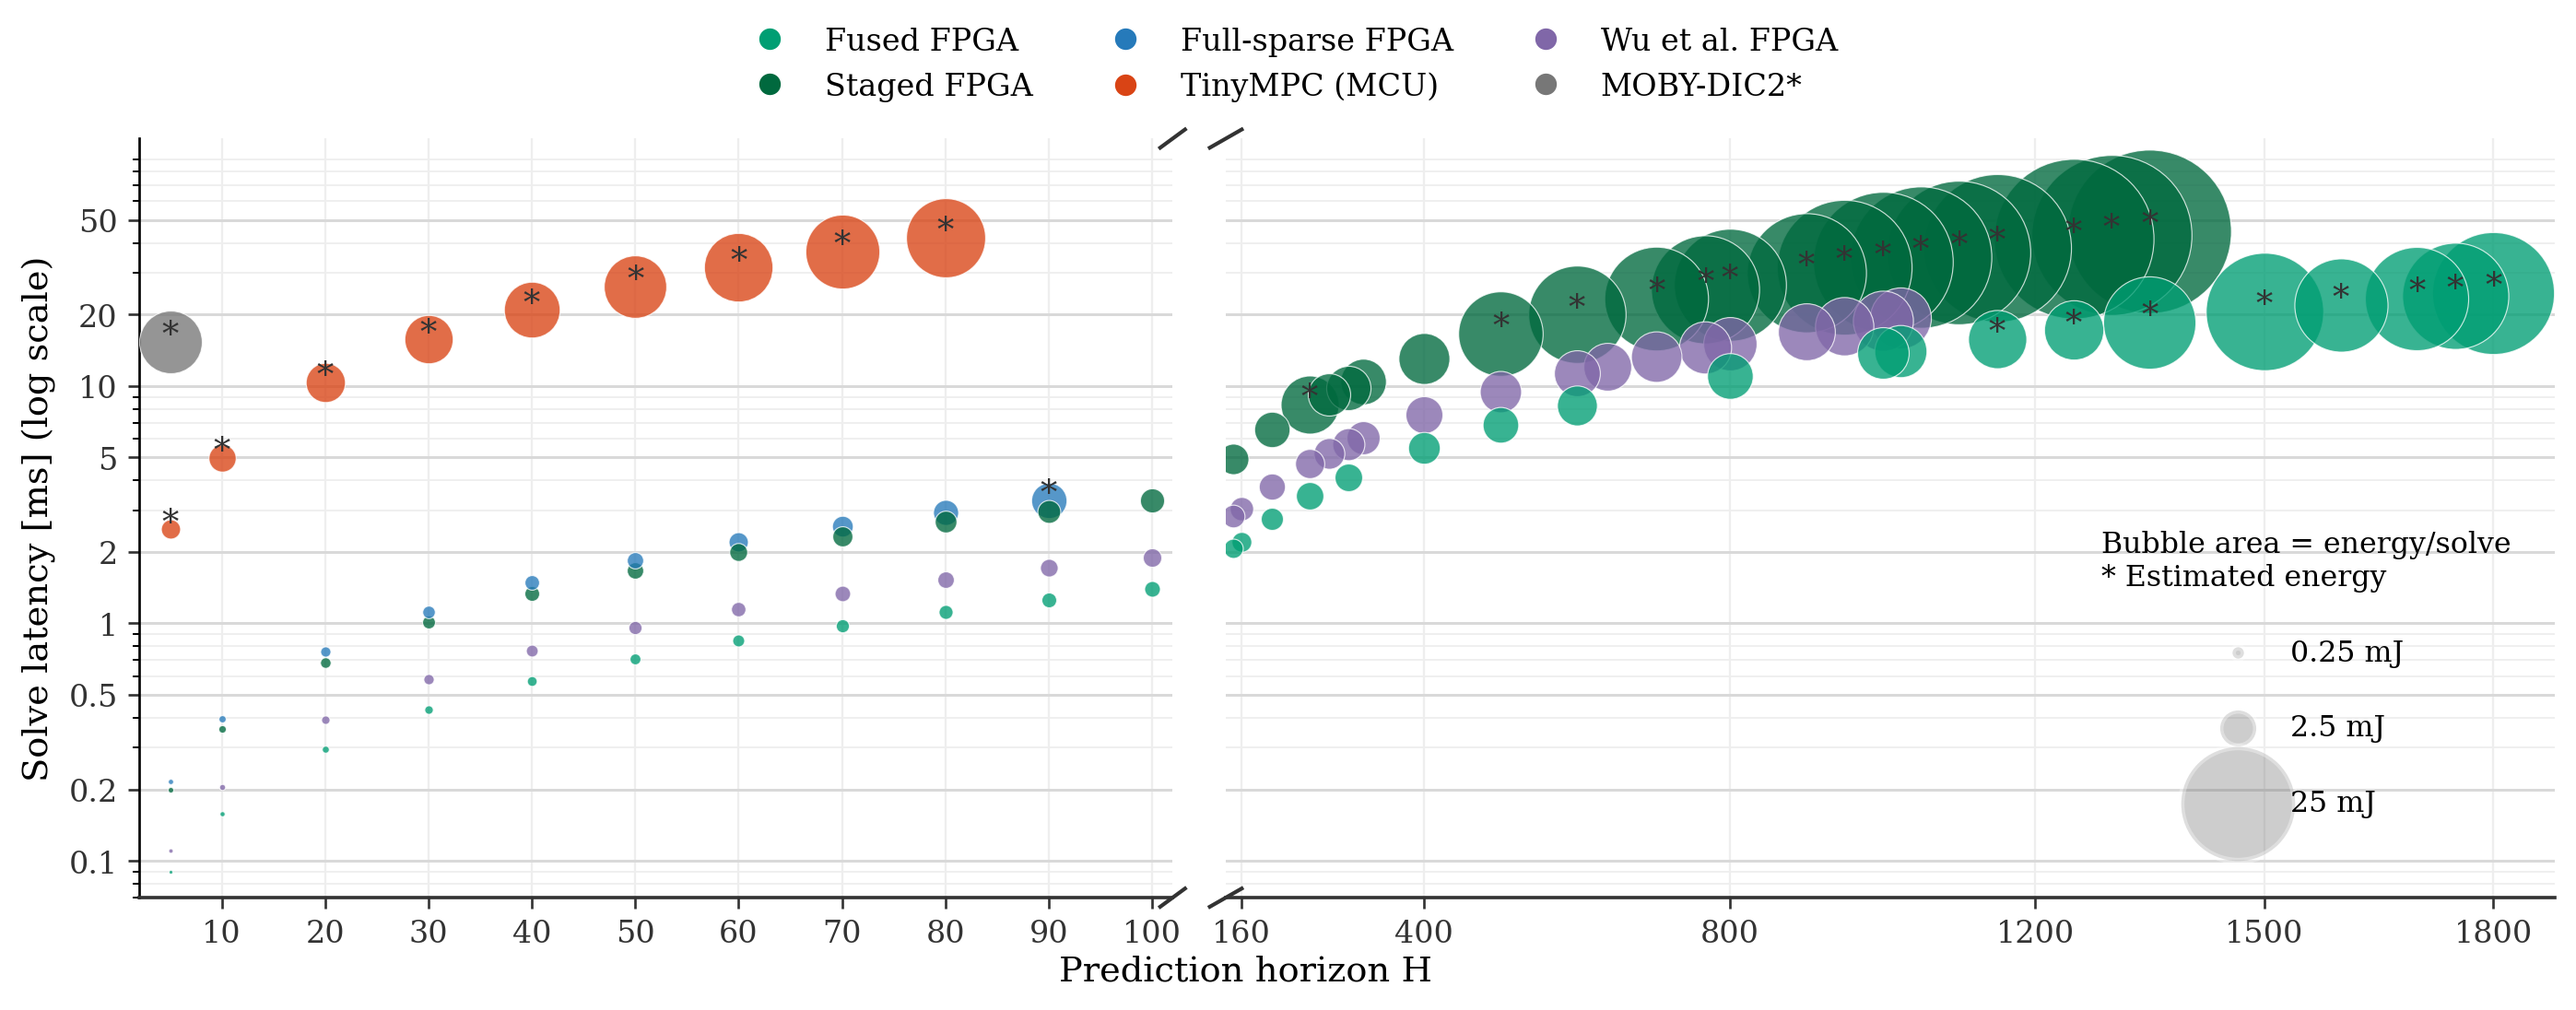
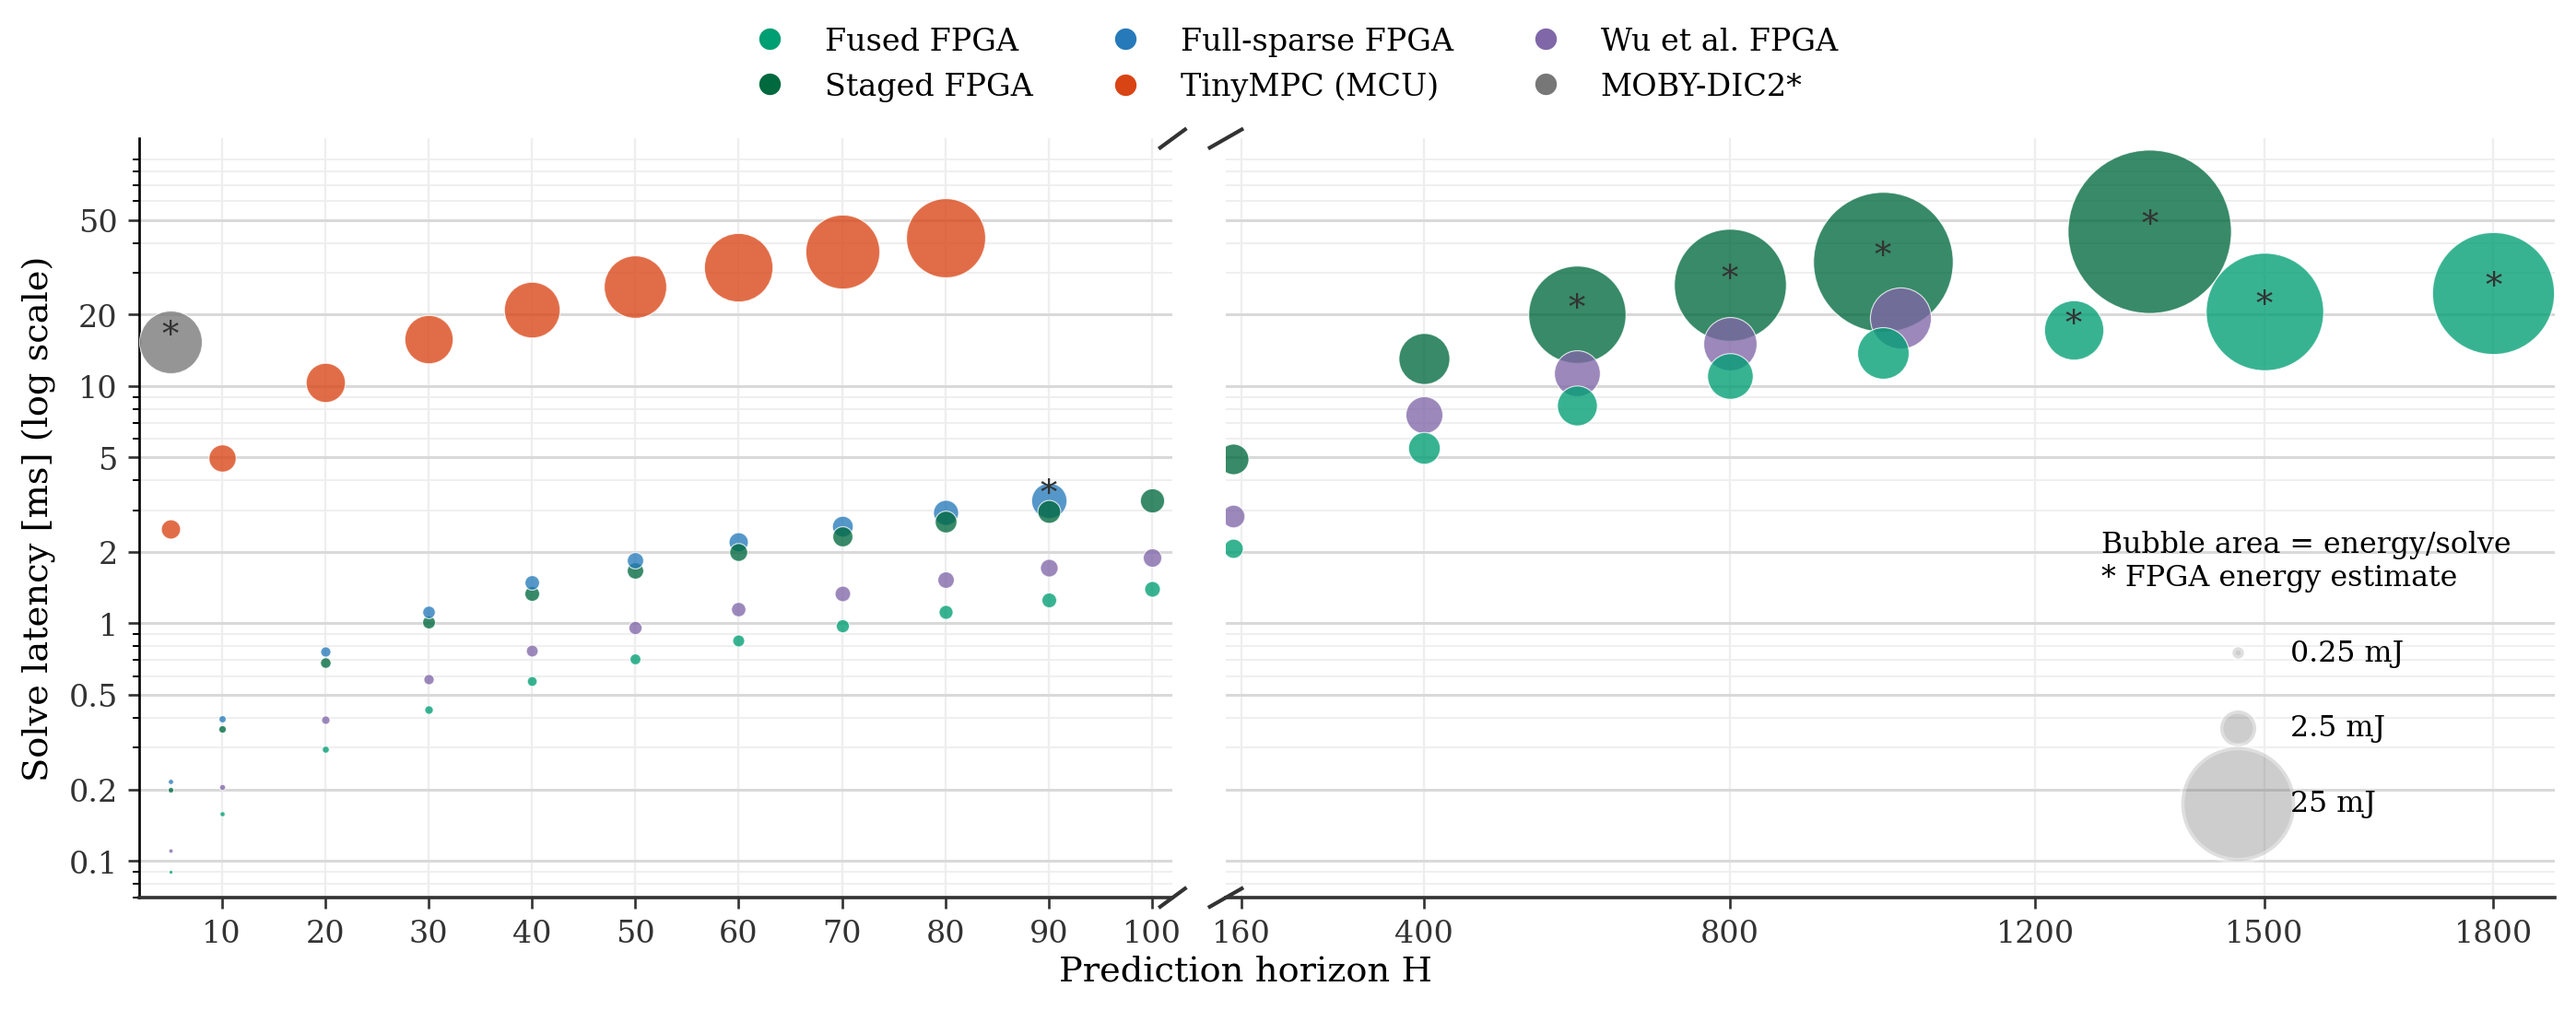
Restore benchmark plot annotations and document measured TinyMPC FPGA energy

Changed region(s): [[0.4669, 0.1551, 0.9961, 0.5584], [0.8093, 0.5584, 0.9649, 0.5894]]

diff --git a/evaluation/plot_benchmarks.py b/evaluation/plot_benchmarks.py
@@ -406,7 +406,7 @@ def _plot_points(ax, rows: list[dict[str, str]], tinympc_power_w: float) -> None
         millijoules = bubble_energy(row)
         if not math.isfinite(millijoules) or millijoules <= 0:
             continue
-        estimated = row.get("energy_source") in ("post_route_estimate", "nominal_mcu")
+        estimated = row.get("energy_source") == "post_route_estimate"
         latency = comparison_latency_us(row) / 1000
         ax.scatter(
             f(row, "horizon"),
@@ -448,7 +448,21 @@ def plot_headline(
         raise ValueError("No timing-clean benchmark rows matched the requested iteration count")
 
     left_rows = [row for row in rows if f(row, "horizon") <= 100]
-    right_rows = [row for row in rows if f(row, "horizon") >= 140]
+    # Thin only the display; keep every valid row for comparisons and statistics.
+    right_rows = []
+    for arch in ARCH_ORDER:
+        candidates = sorted((r for r in rows if r["arch"] == arch and f(r,"horizon") >= 140),
+                            key=lambda r: f(r,"horizon"))
+        picked = []
+        for row in candidates:
+            if not picked or f(row,"horizon") - f(picked[-1],"horizon") >= 180:
+                picked.append(row)
+        if candidates and picked[-1] is not candidates[-1]:
+            if len(picked) > 1 and f(candidates[-1],"horizon") - f(picked[-1],"horizon") < 140:
+                picked[-1] = candidates[-1]
+            else:
+                picked.append(candidates[-1])
+        right_rows.extend(picked)
 
     fig, (left_ax, right_ax) = plt.subplots(
         1,
@@ -512,7 +526,7 @@ def plot_headline(
     right_ax.legend(
         legend_handles,
         [f"{millijoules:g} mJ" for millijoules in legend_energies],
-        title="Bubble area = energy/solve\n* Estimated energy",
+        title="Bubble area = energy/solve\n* FPGA energy estimate",
         loc="lower right",
         bbox_to_anchor=(0.985, 0.075),
         frameon=False,
@@ -586,12 +600,12 @@ def plot_edp_bars(
     }
     horizons = [
         horizon
-        for horizon in [5, 10, 20, 40, 80, 250, 800, 1000, 1023]
+        for horizon in range(10, 81, 10)
         if any((arch, horizon) in rows_by_key and
                math.isfinite(edp_uj_us(rows_by_key[(arch, horizon)], tinympc_power_w))
                for arch in RADAR_ARCHES)
     ]
-    bar_order = ARCH_ORDER
+    bar_order = ["tinympc_e", "full_sparse", "staged_a", "tinympc_fpga_float", "staged_fused"]
     if not horizons:
         raise ValueError("No horizons have measured FPGA EDP and a TinyMPC baseline")
 
@@ -600,7 +614,7 @@ def plot_edp_bars(
     non_axis_fontsize = 10
     improvement_label_fontsize = 13
 
-    bar_width = 0.13
+    bar_width = 0.16
     offsets = {arch: (i - (len(bar_order)-1)/2) * bar_width for i, arch in enumerate(bar_order)}
     x_positions = list(range(len(horizons)))
     edp_by_arch = {
@@ -626,7 +640,7 @@ def plot_edp_bars(
     for arch in bar_order:
         for idx,h in enumerate(horizons):
             row=rows_by_key.get((arch,h))
-            if row and row.get("energy_source") in ("post_route_estimate", "nominal_mcu"):
+            if row and row.get("energy_source") == "post_route_estimate":
                 ax.text(idx+offsets[arch], edp_by_arch[arch][idx]*1.1,"*",ha="center",fontsize=9)
     ax.set_yscale("log")
     all_edp = [value for values in edp_by_arch.values() for value in values if math.isfinite(value)]
@@ -652,15 +666,36 @@ def plot_edp_bars(
             if not math.isfinite(edp_by_arch[arch][idx]):
                 ax.text(idx + offsets[arch], min(all_edp) * .65, "n/a",
                         ha="center", color=COLORS[arch], fontsize=8, rotation=90)
-    fig.text(0.5, 0.025, "* Estimated energy. FPGA measurements include estimated auxiliary/I/O rails. n/a: no result.",
-             ha="center", fontsize=9)
+    # Restore dashed comparison arrows and boxed improvement labels.
+    for idx, horizon in enumerate(horizons):
+        target = edp_by_arch["staged_fused"][idx]
+        target_x = idx + offsets["staged_fused"]
+        for baseline, color, label_scale in [("tinympc_e", COLORS["staged_fused"], 0.5),
+                                              ("tinympc_fpga_float", COLORS["tinympc_fpga_float"], 0.5)]:
+            base = edp_by_arch[baseline][idx]
+            top, bottom = base * .95, target * 1.08
+            x = target_x if baseline == "tinympc_e" else target_x - bar_width*.45
+            ax.plot([idx+offsets[baseline]+bar_width/2, x], [top,top],
+                    color=color, linewidth=1.25, linestyle="--", zorder=5)
+            ax.annotate("",xy=(x,bottom),xytext=(x,top),
+                        arrowprops={"arrowstyle":"-|>","color":color,"lw":1.25,
+                                    "linestyle":"--","mutation_scale":11},zorder=5)
+            ratio = base/target
+            label = f"{ratio:.0f}×" if baseline == "tinympc_e" else f"{ratio:.2f}×"
+            ax.annotate(label, xy=(x, bottom*(top/bottom)**label_scale),
+                        xytext=(0,0),textcoords="offset points",color=color,
+                        fontsize=11,fontweight="semibold",ha="center",va="center",
+                        bbox={"boxstyle":"round,pad=0.14","fc":"white","ec":color,
+                              "alpha":.9,"linewidth":.55},zorder=6)
+    fig.text(0.5, 0.025, "Arrows: EDP reduction to fused FPGA. MCU energy uses nominal active power.",
+             ha="center", fontsize=10)
 
     legend = ax.legend(
         loc="upper center", bbox_to_anchor=(0.5, 1.24),
         frameon=False,
         fancybox=False,
         edgecolor="#D0D0D0",
-        fontsize=9, ncol=3,
+        fontsize=11, ncol=3,
     )
     legend.get_frame().set_linewidth(0.8)
     legend.get_frame().set_facecolor("white")
@@ -763,12 +798,27 @@ def plot_solver_radar(
             zorder=3,
         )
         ax.fill(angles, values, color=COLORS[arch], alpha=0.13, zorder=2)
+    label_positions = {
+        "Latency": [(0.04,.38),(-.12,.86),(.08,1.06)],
+        "Energy/solve": [(-.04,.42),(-.11,.90),(.08,1.06)],
+        "EDP": [(0,.20),(-.10,.89),(.08,1.07)],
+        "BRAM": [(0,.73),(.03,.42),(0,1.06)],
+        "Logic": [(0,1.06),(.04,.82),(-.04,.35)],
+        "Scalability": [(-.18,.16),(.08,.34),(0,.92)],
+    }
+    for i, metric in enumerate(metrics):
+        for j, arch in enumerate(RADAR_ARCHES):
+            theta, radius = label_positions[metric][j]
+            ax.text(angles[i]+theta, radius,
+                    format_radar_value(metric,raw_by_arch[arch][metric],max_horizons[arch]),
+                    color=COLORS[arch],fontsize=10,fontweight="semibold",ha="center",va="center",
+                    bbox={"boxstyle":"round,pad=0.12","fc":"white","ec":"none","alpha":.85},zorder=6)
     ax.set_xticks(angles[:-1])
     ax.set_xticklabels([])
     label_distances = {
         "Latency": 1.25,
         "Energy/solve": 1.48,
-        "EDP": 1.3,
+        "EDP": 1.55,
         "BRAM": 1.28,
         "Logic": 1.4,
         "Scalability": 1.4,

diff --git a/docs/benchmarking.md b/docs/benchmarking.md
@@ -62,74 +62,47 @@ It writes canonical CSVs, figures and a short source/settings record. Its
 
 ## Energy and timing definitions
 
-Synthesis-derived FPGA solve latency is HLS cycle count divided by 100 MHz, 
-subject to route timing closure. It excludes SPI and host processing. 
-All latency coordinates in the bubble plot, the feasibility table and
-resource/scalability results use these synthesized implementations. They are separate from the Arty measurement campaign.
+The single publication input is `evaluation/data/benchmarks.csv`. It contains
+completed, timing-clean results only. Measured configurations use measured solve
+latency; uninstrumented configurations use HLS cycles divided by their operating
+clock, subject to route timing closure. Communication and host processing are excluded.
 
-Both post-route power estimates and [Arty measurements](power.md) are provided.
-At all 24 configurations with measurements, the post-route benchmark estimates
-are higher than the measurement-based values, giving a more conservative power
-comparison. The latency/energy and EDP figures use measured active
-core/BRAM rail power plus the auxiliary and I/O supply estimates
-from each configuration's matching post-route report. At the report's printed
-precision these contributions are 32.4 mW VCCAUX and 13.2 mW VCCO33 for all 24
-measured configurations. VCCADC is excluded as it is tied to ground in the custom 
-PCB. AccelMPC EDP bars require measured core/BRAM power. The added TinyMPC FPGA
-baseline uses total post-route estimated power and synthesized latency at 100 MHz;
-its bars are explicitly asterisked and hatched. Missing baseline horizons are
-shown as n/a. The latency/energy plot
-uses post-route estimates for configurations without measurements, marked by an
-asterisk. Each such bubble uses the matching synthesis-derived latency.
+Both AccelMPC and **TinyMPC FPGA (Wu et al.) use Arty measurements** wherever
+available. All 29 TinyMPC FPGA publication points, H5 through H1023, are measured.
+Fused measurements also extend through H1023. For both FPGA solvers, energy is
+measured active core/BRAM energy plus matching post-route auxiliary/I/O supply
+power multiplied by measured latency. EDP uses that same latency. Auxiliary/I/O
+power is supply voltage times total current, including static current; VCCADC is
+excluded because it is tied to ground on the custom PCB. Instrumentation remains
+included in measured core power; no estimated instrumentation power is subtracted.
+Regulators, board support circuitry, host processing and SPI energy are excluded.
+Measurements are from the Arty, not the flight deck, with trajectory generation disabled.
 
-The monitored core rail includes measurement instrumentation. Vivado estimates
-that this instrumentation accounts for approximately 30% of total power consumption. 
-We retain this overhead in the reported measurements, giving a conservative assessment
-of solver power rather than introducing uncertainty by subtracting an estimated
-contribution. The added estimates use total supply current (including static current).
-Regulators, external board support circuitry, host processing and SPI-transfer energy
-remain outside the metric. The measurements are from the Arty, not the custom flight
-deck; trajectory generation is disabled.
+`energy_source=board_core_plus_estimated_aux_io` identifies these measurements;
+`post_route_estimate` identifies uninstrumented estimates, marked with an asterisk.
+TinyMPC FPGA measured bars are neither asterisked nor hatched. TinyMPC MCU latency
+is measured in FreeRTOS and its energy uses nominal active power,
+`0.087 A × 3.3 V = 0.2871 W`. MCU points have no asterisk; this nominal-power
+assumption is stated in the captions. Energy outside the solve is excluded.
 
-FPGA energy uses the campaign's mean active core energy plus auxiliary/I/O power
-times that configuration's measured solve latency. EDP multiplies this combined
-energy by the same latency. Synthesis-derived latency is never substituted into these
-energy calculations. TinyMPC uses the stored MCU latency and the nominal active
-power `0.087 A × 3.3 V = 0.2871 W`. TinyMPC keeps the MCU active within FreeRTOS without
-voluntarily yielding or blocking during the solve, occupying time during which it
-would otherwise be idle. We attribute the active MCU energy consumed throughout
-this directly measured execution interval to MPC. Energy
-consumed during the rest of the autopilot cycle is excluded. For both platforms,
-`E = P × t` and `EDP = E × t` exclude communication.
+The CSV retains every valid point. Only the latency/energy display is thinned at
+large horizons to avoid overlapping bubbles; comparisons and statistics still use
+all rows. EDP bars cover H10 through H80, with dashed arrows and boxed ratios
+showing the EDP reduction from the MCU and Wu FPGA baselines to fused AccelMPC.
+The separate feasibility table reserves 100 microseconds for FPGA communication
+within a 1 ms period. Large demonstrated horizons do not imply 1 kHz operation.
 
-The 18 unmeasured campaign configurations have failed instrumented builds;
-none are awaiting measurement in this dataset. Staged H250 and
-full-sparse H90 failed routed timing; the other failures occurred during HLS,
-implementation or capacity checks. The measurement instrumentation increases
-FPGA resource usage and can make timing closure more difficult, limiting the
-horizons supported by the instrumented build relative to the solver alone.
-The bubble plot uses asterisked estimates for unmeasured configurations. The 
-feasibility table separately reserves 100 µs for FPGA communication within 
-a 1 ms period. A larger supported horizon does not imply operation at 1 kHz.
-
-Regenerate the figures from the bundled CSVs:
+Regenerate without FPGA tools:
 
 ```bash
-python evaluation/plot_benchmarks.py
-python evaluation/summarize_results.py --benchmarks-only
+~/venv/bin/python evaluation/plot_benchmarks.py --skip-trajectory
+~/venv/bin/python evaluation/summarize_results.py --benchmarks-only
 ```
 
-`evaluation/data/arty_power_measurements.csv` stores measured core/BRAM values
-and the missing supply estimates in `estimated_aux_w` and `estimated_io_w`.
-The estimates were taken from the matching post-route supply reports using
-voltage times total current. Failed configurations keep these fields empty.
-The existing plotter adds these contributions when calculating energy and EDP;
-no separate preprocessing step or combined CSV is needed.
-
-The architecture radar uses measured solve latency and measured core/BRAM energy
-plus estimated auxiliary/I/O energy, on the same basis as the EDP comparison.
-BRAM and LUT utilization and maximum demonstrated horizons come from the
-implementation results in `benchmark_summary.csv`. The “Logic” axis is LUT utilization
-as a percentage of the device's LUT capacity. At H40 this is 34.9% for staged and
-14.6% for full_sparse. Missing measured latency or energy causes radar generation
-to fail rather than silently use power estimates.
+The H40 radar reports measured latency and energy for all three AccelMPC mappings.
+Numbers on its spokes show actual values; radial positions normalize each cost to
+the worst design. Scalability uses inverse largest demonstrated horizon. Resources
+come from the consolidated CSV: fused includes its measurement harness, while the
+original mappings use solver/SPI builds, as recorded by `resource_scope`. Missing
+measurements at the radar horizon cause generation to fail. Historical campaign
+CSVs and Vivado reports are not additional inputs to publication plotting.

diff --git a/evaluation/README.md b/evaluation/README.md
@@ -26,7 +26,7 @@ in microjoules, latency in microseconds, and EDP in microjoule-microseconds.
 `measured_energy_uj` is populated only for board measurements. Its reported
 standard deviation covers measured core energy, not uncertainty in auxiliary/I/O
 estimates. Communication, host processing, and board support circuitry are excluded.
-Asterisks mark estimates in both plots; no values are interpolated.
+Asterisks mark FPGA estimates; MCU points have no asterisk and retain the stated nominal-power calculation. No values are interpolated.
 
 The new fused and Wu measurements average three valid repetitions with a target
 batch duration of two seconds and at least 1024 solves. Existing full_sparse and
